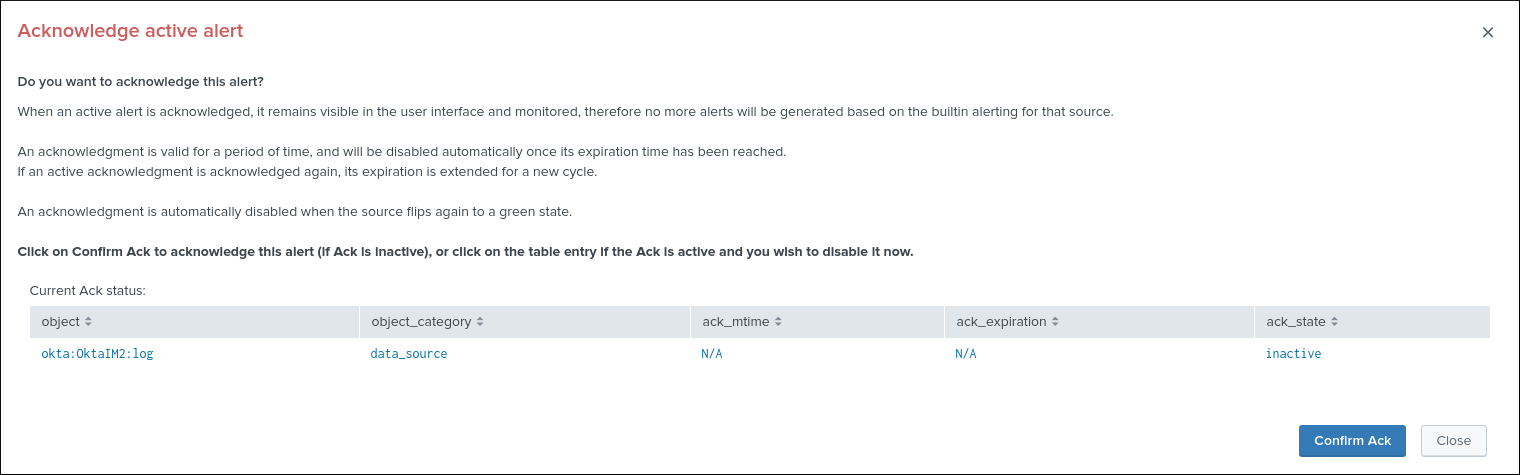
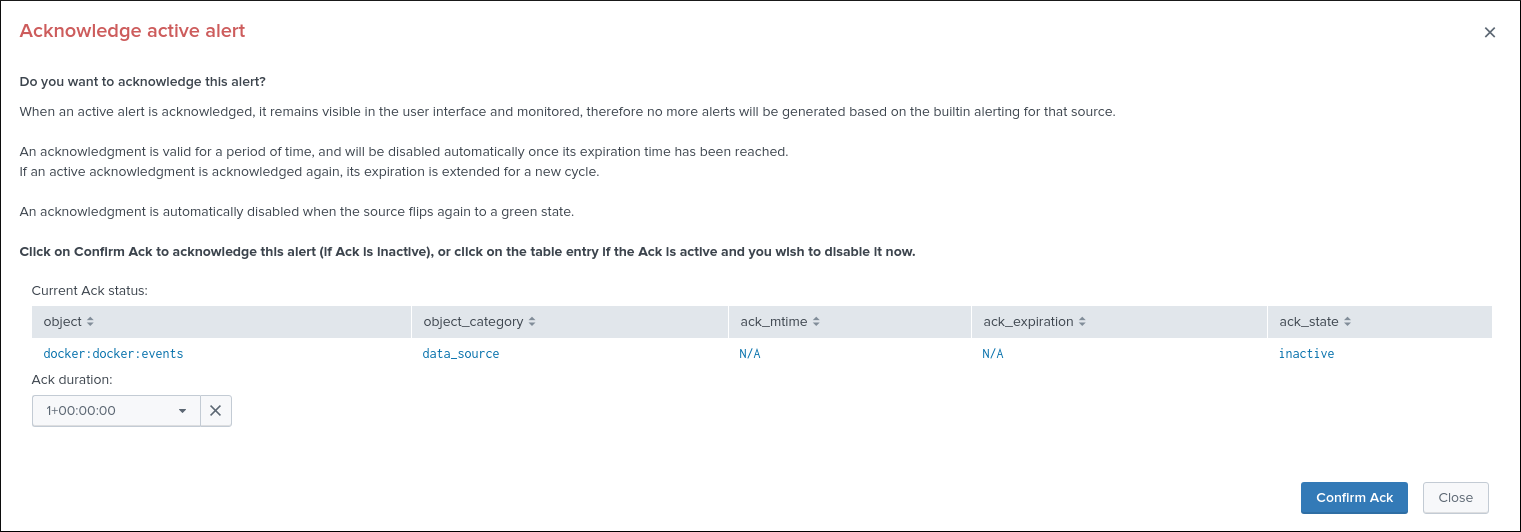
docs updates

diff --git a/docs/userguide.rst b/docs/userguide.rst
@@ -267,8 +267,8 @@ When the monitoring of the data source applies on the sourcetype level, if that 
 
 When the monitoring ot the data source applies on the index level, we take in consideration what the latest data available is in this index, not matter what the sourcetype is.
 
-Modifying the monitoring lag value:
------------------------------------
+Modifying the monitoring lag value
+----------------------------------
 
 **The maximal lagging value in seconds is the most essential item to be configured and defines the maximal time in seconds we accept a lack of data for that data source / host:**
 
@@ -507,7 +507,7 @@ Once the action is confirmed, the association is immediately removed and the ent
 Data identity card
 ==================
 
-**This feature is currently supported only for data sources monitoring.**
+**Data identity cards are available for data sources monitoring only.**
 
 **Data identity cards allow you to define a Web link and a documentation note that will be stored in a KVstore collection, and made available automatically via the UI and the out of the box alert.**
 
@@ -613,7 +613,7 @@ Builtin alerts are Splunk alerts which can be extended to be integrated in many 
 Alerts acknowledgment
 =====================
 
-**When using builtin alerts, you can leverage alerts acknowledgments within the UI to acknowledge an active alert.**
+**When using builtin alerts, you can leverage alert acknowledgments within the UI to silent an active alert during a given period.**
 
 .. image:: img/ack1.png
    :alt: ack1.png
@@ -623,8 +623,7 @@ Alerts acknowledgment
 
 - Via the user interface, acknowledge an active alert
 - Once acknowledged, the entity remains visible in the UI and monitored, but no more alerts will be generated during the time of the acknowledge
-- By default, acknowledges have an expiration duration of 24 hours
-- This means that once acknowledged, an active alert will not generate a new alert for the next 24 hours
+- An entity (data source, etc) that is in active alert and has been acknowledged will not generate any new alert for the next 24 hours by default, which value can be increased via the input selector
 - Therefore, if the entity flips to a state green again, the acknowledge is automatically disabled
 - If the entity flips later on to a red state, a new acknowledge should be created
 
@@ -635,7 +634,7 @@ Alerts acknowledgment
 - The default duration of acknowledges is define by the macro named "trackme_ack_default_duration"
 - Every 5 minutes, the tracker scheduled report named "TrackMe - Ack tracker" verifies if an acknowledge has reached its expiration and will update its status if required
 - The tracker as well verifies the current state of the entity, if the entity has flipped again to a green state, the acknowledge is disabled
-- An acknowledge can be acknowledged again within the UI, which will extend its expiration for another cycle of 24 hours from now
+- An acknowledge can be acknowledged again within the UI, which will extend its expiration for another cycle
 
 **Acknowledge for an active alert is inactive:**
 
